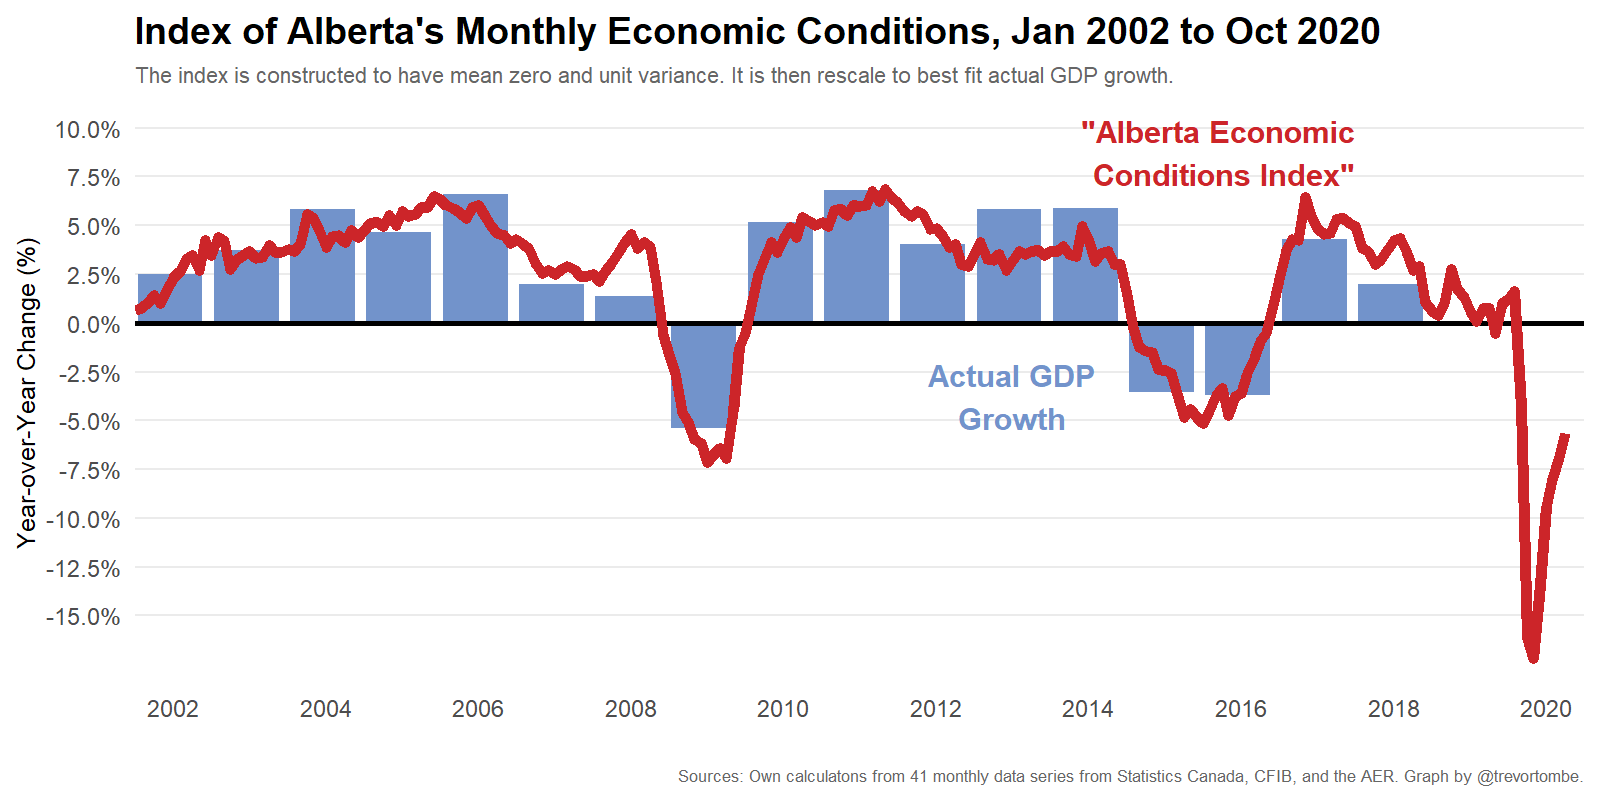
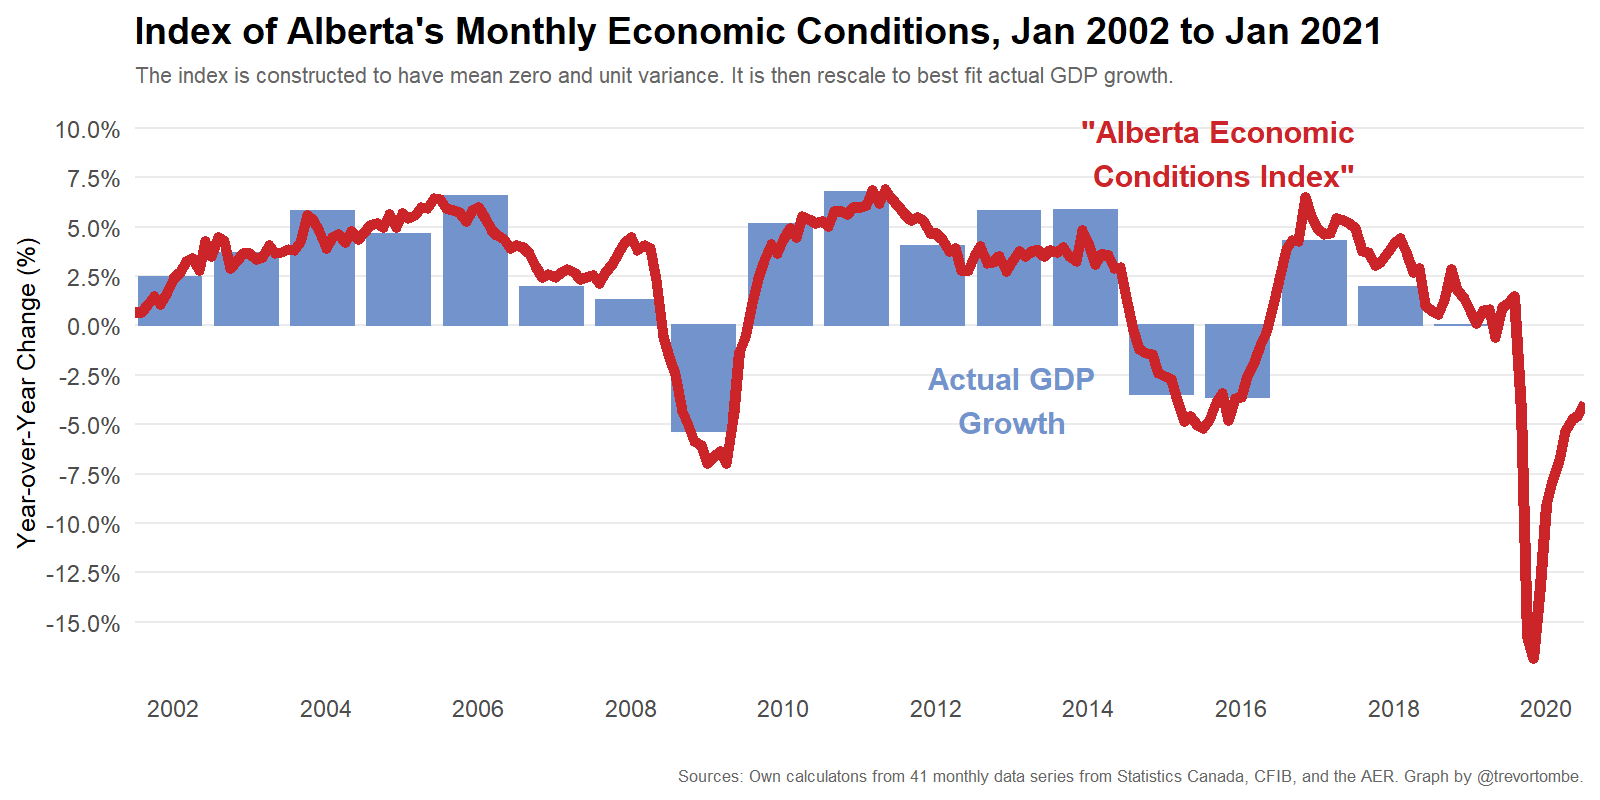
Update to January 2021

diff --git a/README.md b/README.md
@@ -1,10 +1,21 @@
-# Constructs Monthly Index of Economic Conditions in Alberta
+Constructs Monthly Index of Economic Conditions in Alberta
+==========================================================
 
-The following compiles monthly data from a variety of courses to estimate real-time economic conditions in Alberta. It closely follows, as much as the data allows, the Chicago Fed National Activity Index. https://www.chicagofed.org/publications/cfnai/index 
+The following compiles monthly data from a variety of courses to
+estimate real-time economic conditions in Alberta. It closely follows,
+as much as the data allows, the Chicago Fed National Activity Index.
+<a href="https://www.chicagofed.org/publications/cfnai/index" class="uri">https://www.chicagofed.org/publications/cfnai/index</a>
 
-There are three R files necessary to construct the Economic Conditions Index. First "core.R" loads packages, functions, themes, and other useful objects. Second, "ECI_data.R" downloads the processes the necessary data from various sources. Note that depending on the day this file is run, manual entry of data may be required (for example, wells drilled). Third, "ECI.R" estimates the first principle component from this data and generates the visualization.
+There are three R files necessary to construct the Economic Conditions
+Index. First “core.R” loads packages, functions, themes, and other
+useful objects. Second, “ECI\_data.R” downloads the processes the
+necessary data from various sources. Note that depending on the day this
+file is run, manual entry of data may be required (for example, wells
+drilled). Third, “ECI.R” estimates the first principle component from
+this data and generates the visualization.
 
 The end result is:
 
 ![Alberta ECI](plot.png)
 
+The latest ECI for Jan 2021 is -1.4895048.
